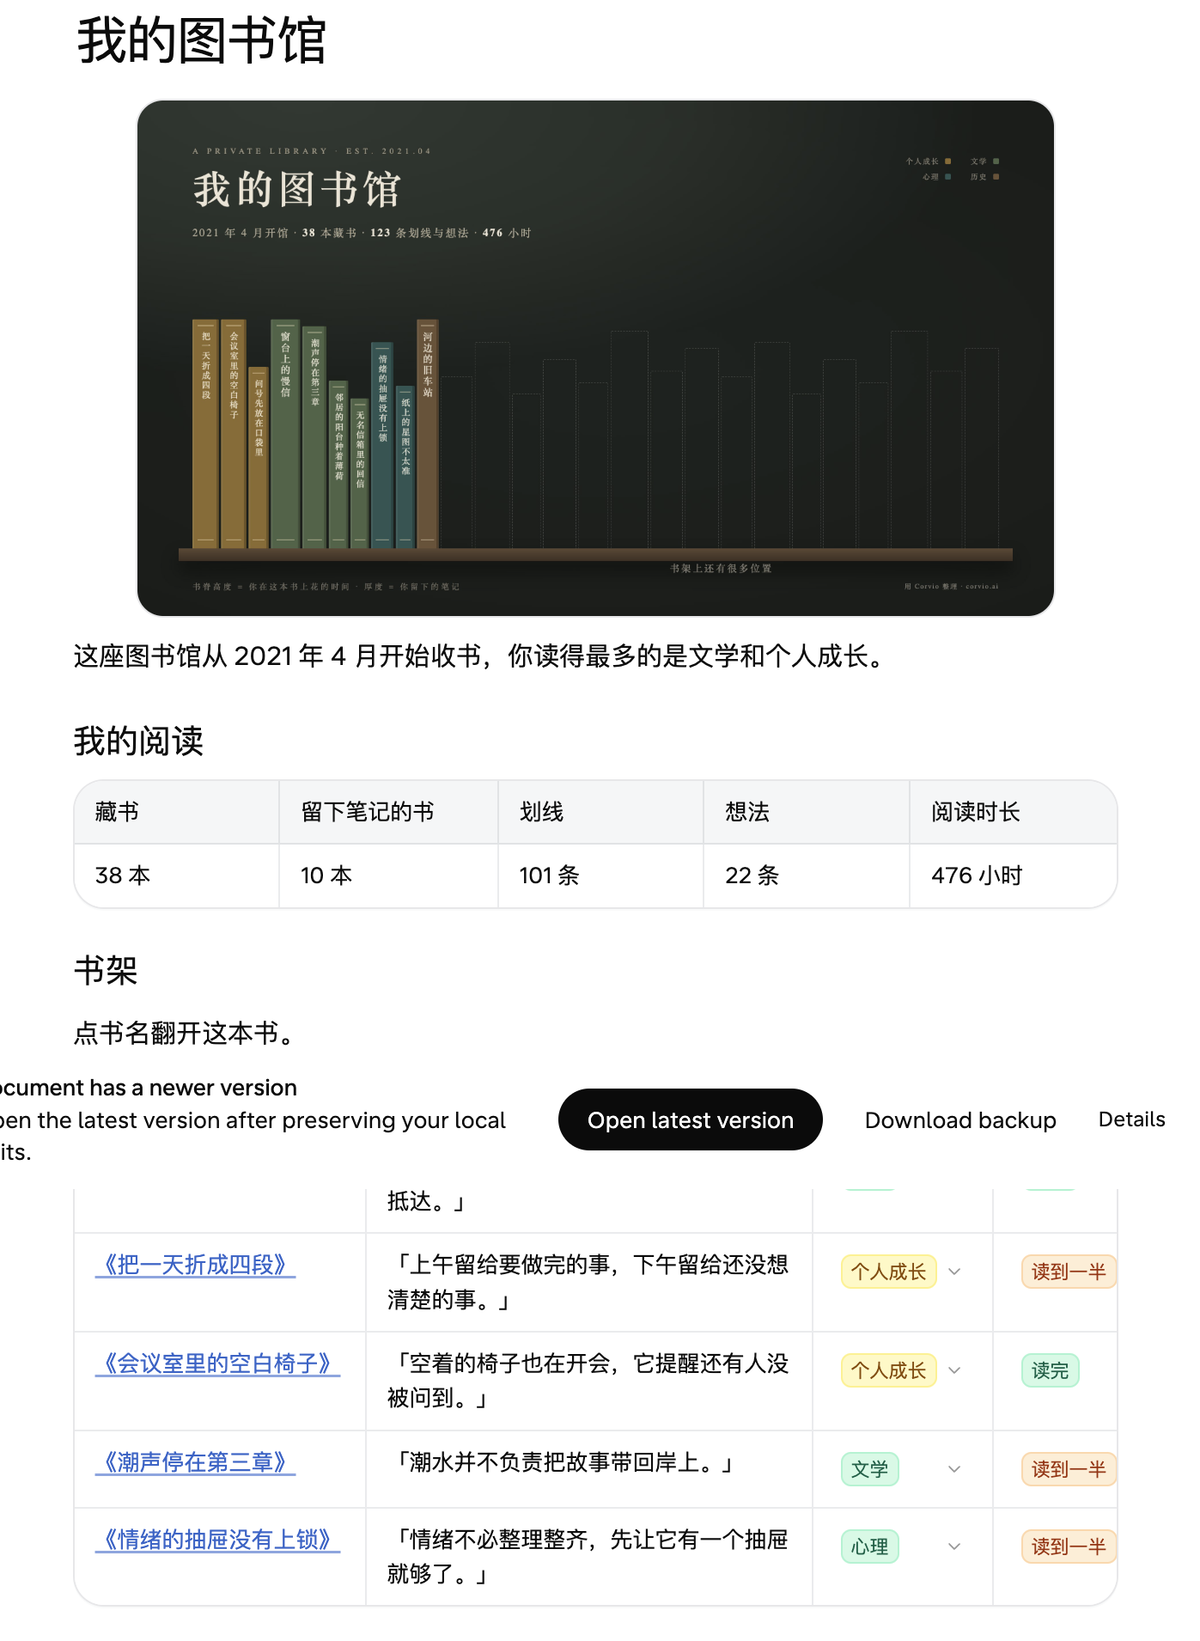
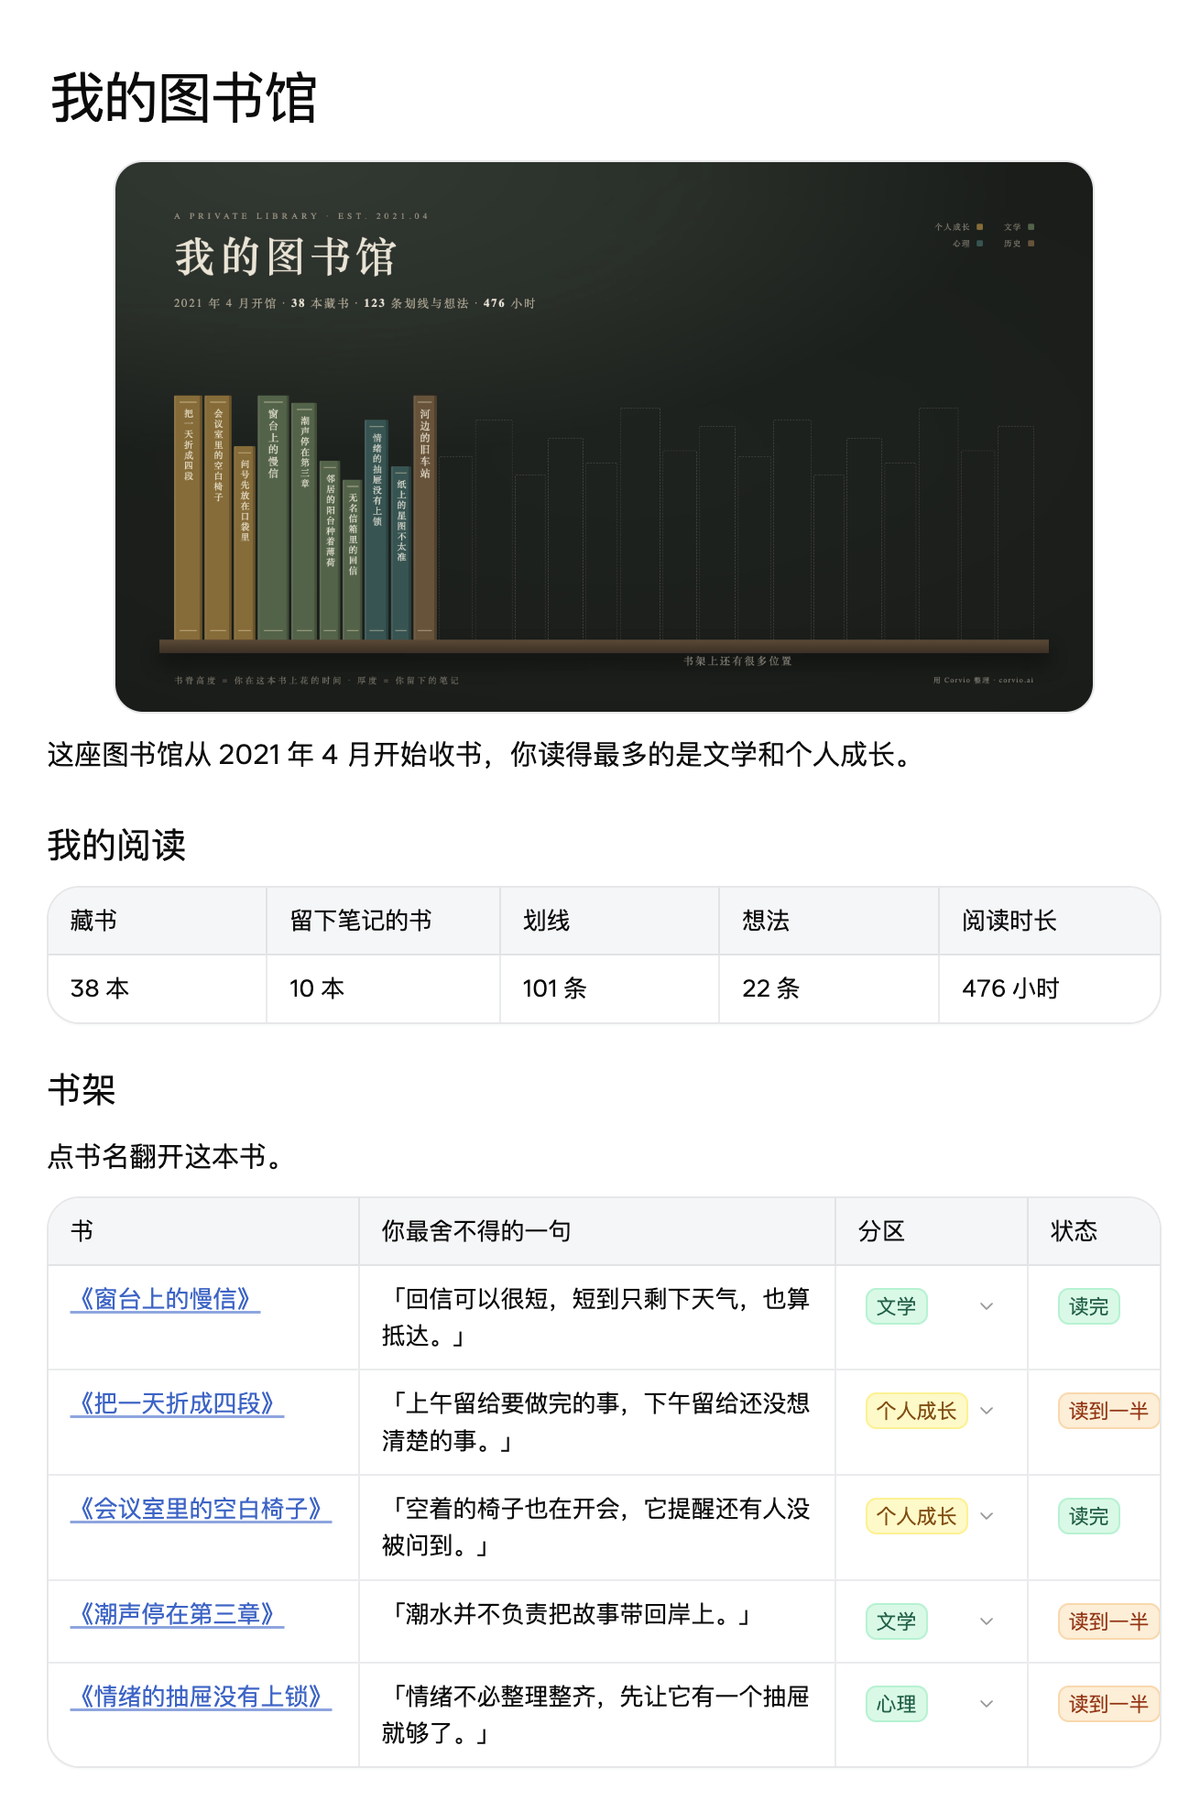
更新截图、README 和页面细节

diff --git a/scripts/pages.py b/scripts/pages.py
@@ -44,7 +44,7 @@ def thought_md(i):
     """Corvio 的引用块一行一块、相邻的会连成一片，所以引用块里只放原文，你写的话和日期跟在下面一行。"""
     meta = f"　{gray(dshort(i['time']))}" if i.get("time") else ""
     return ([f"> {one(i['abstract'])}", ""] if i.get("abstract") else []) + \
-        [f'**<span style="color:#9a6b3f">你写道</span>**：{one(i["text"])}{meta}', ""]
+        [f'**<span style="color:#be684f">你写道</span>**：{one(i["text"])}{meta}', ""]
 
 
 def highlight_md(i, best=False):
